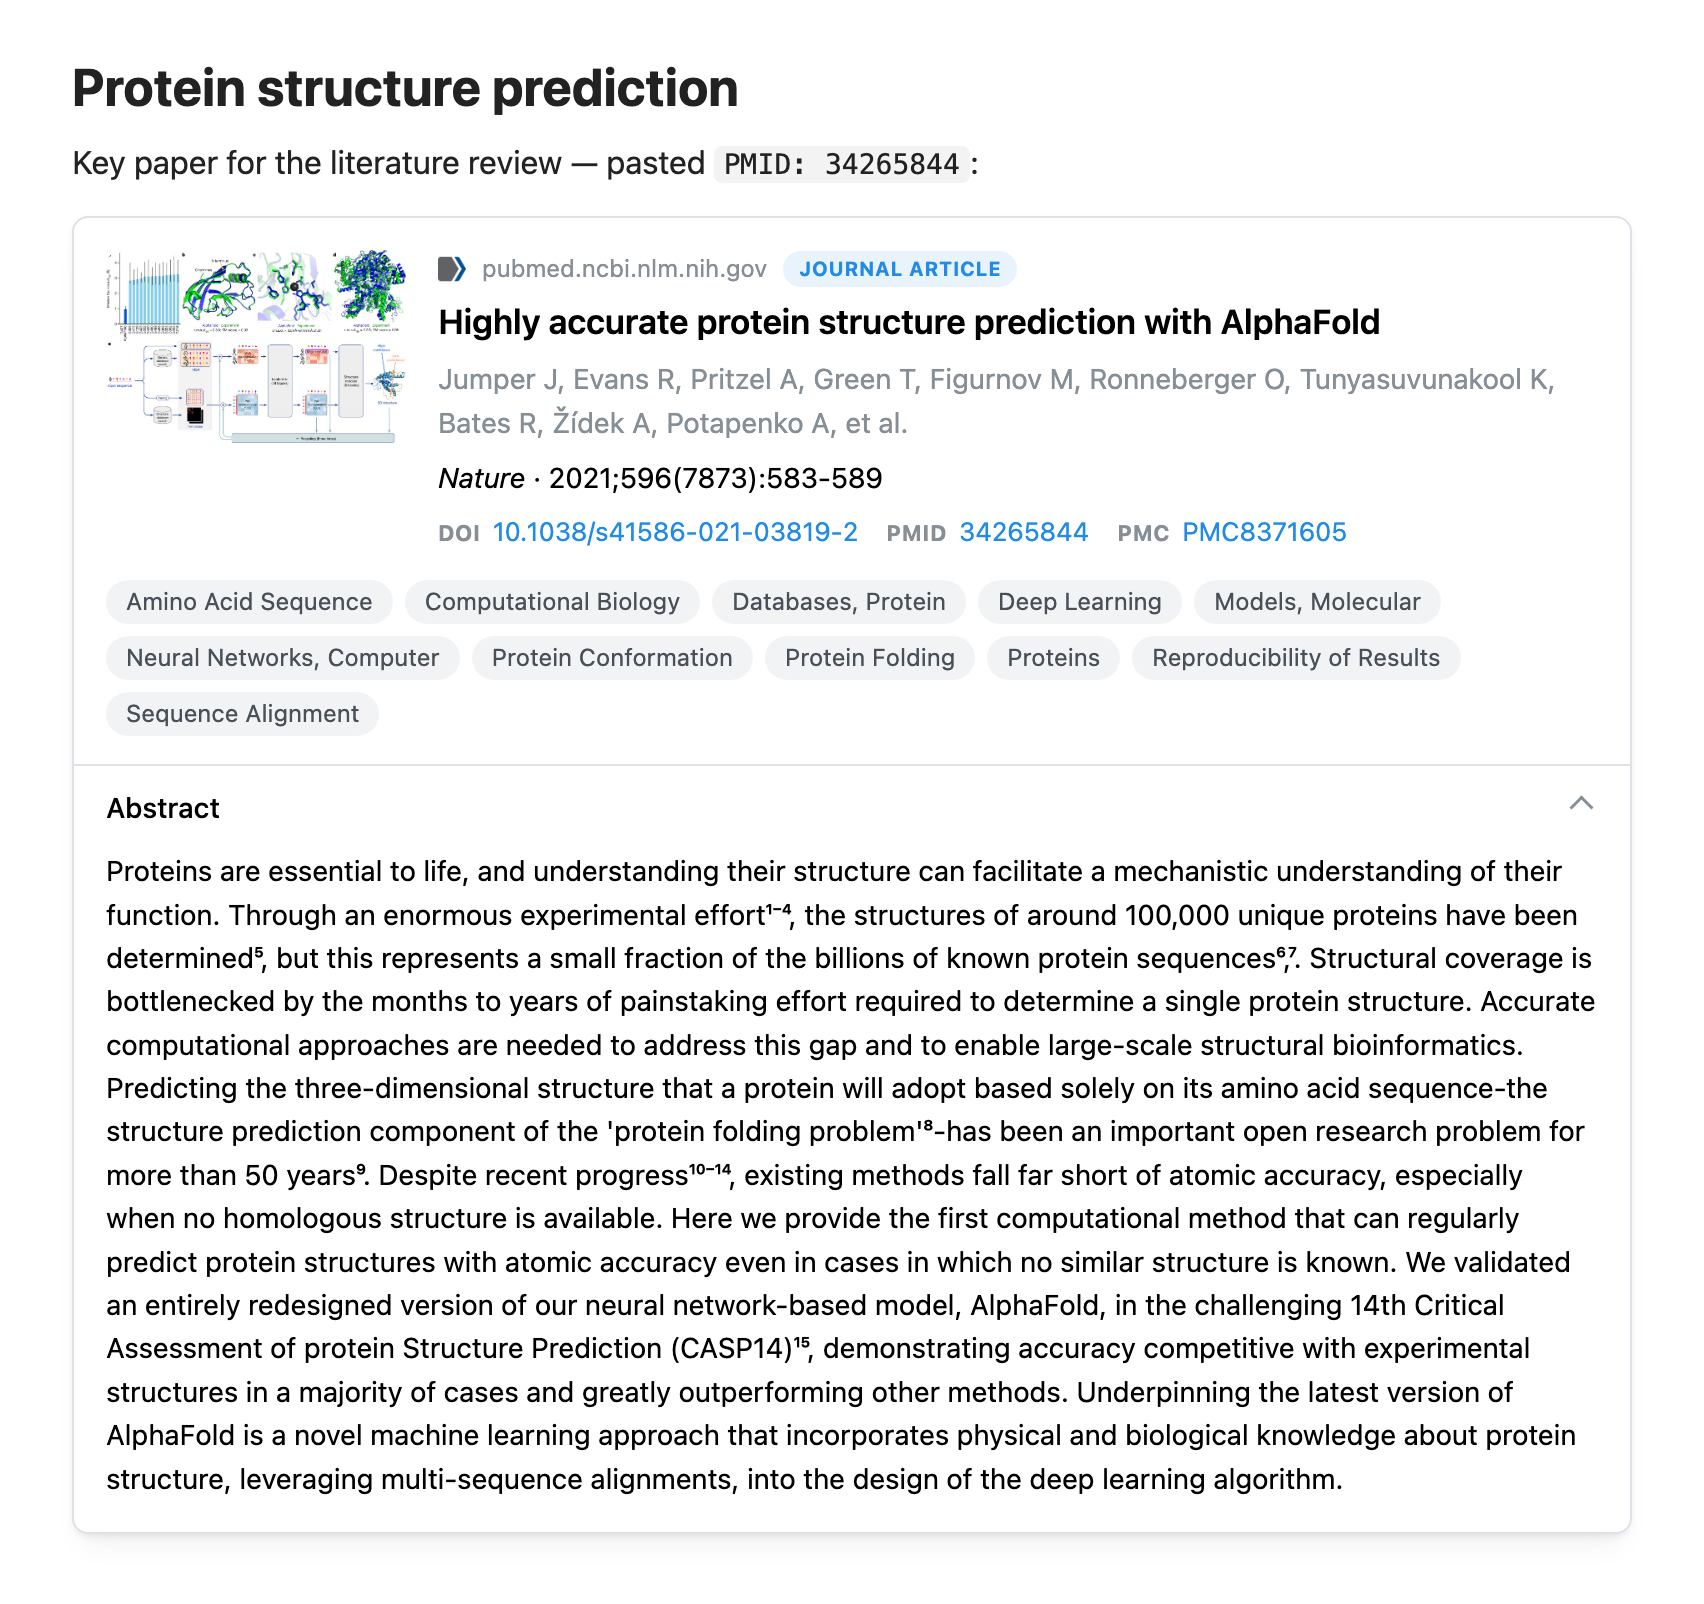
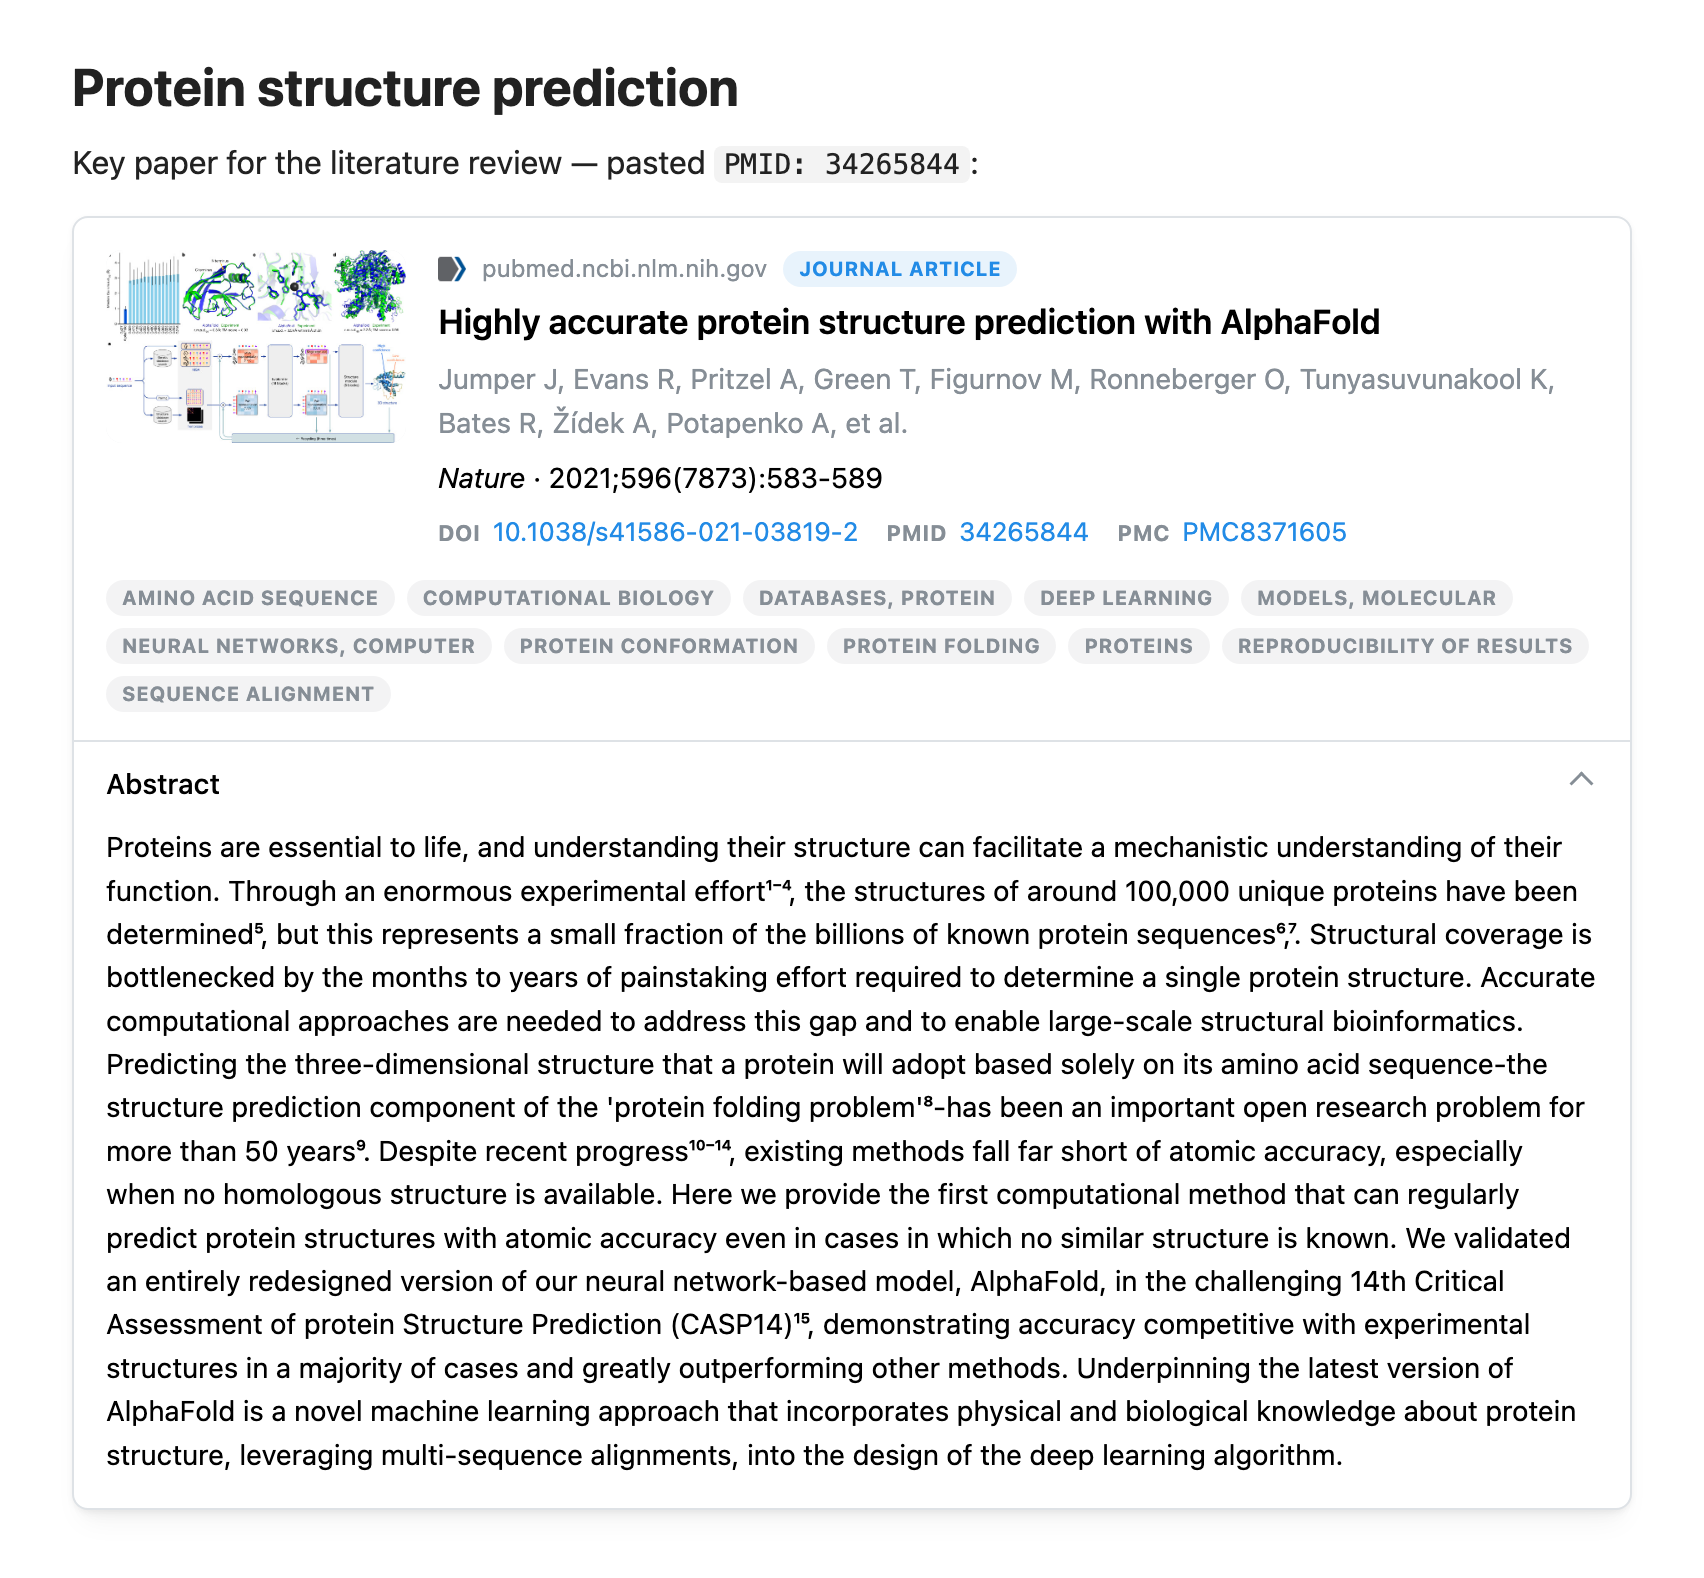
Keywords as Mantine light gray Badges
Replace the Pill style with Badge variant="light" color="gray"
(uppercase, bold, 18px, rounded) in Mantine's light and dark palettes.
Regenerate README and listing images. Bump to 1.4.1.

diff --git a/styles.css b/styles.css
@@ -1,6 +1,6 @@
 /*
  * Card styled after Mantine (https://mantine.dev): Card withBorder + shadow="sm" + radius="md",
- * light-variant Badge, Pill, Anchor and Accordion-like abstract toggle, with Mantine's default
+ * light-variant Badges (blue type, gray keywords), Anchor and Accordion-like abstract toggle, with Mantine's default
  * light/dark palettes following Obsidian's theme.
  */
 .scientific-article-card {
@@ -17,8 +17,8 @@
 	--sac-anchor: #228be6;
 	--sac-badge-bg: rgba(34, 139, 230, 0.1);
 	--sac-badge-color: #228be6;
-	--sac-pill-bg: #f1f3f5;
-	--sac-pill-color: #495057;
+	--sac-gray-badge-bg: rgba(134, 142, 150, 0.1);
+	--sac-gray-badge-color: #868e96;
 	--sac-thumb-bg: #f1f3f5;
 	--sac-shadow: 0 1px 3px rgba(0, 0, 0, 0.05), rgba(0, 0, 0, 0.05) 0 10px 15px -5px, rgba(0, 0, 0, 0.04) 0 7px 7px -5px;
 
@@ -45,8 +45,8 @@
 	--sac-anchor: #4dabf7;
 	--sac-badge-bg: rgba(34, 139, 230, 0.15);
 	--sac-badge-color: #4dabf7;
-	--sac-pill-bg: #242424;
-	--sac-pill-color: #c9c9c9;
+	--sac-gray-badge-bg: rgba(134, 142, 150, 0.15);
+	--sac-gray-badge-color: #ced4da;
 	--sac-thumb-bg: #242424;
 	--sac-shadow: 0 1px 3px rgba(0, 0, 0, 0.3), rgba(0, 0, 0, 0.2) 0 10px 15px -5px;
 }
@@ -177,7 +177,7 @@
 	object-fit: cover;
 }
 
-/* Pill.Group */
+/* Group of Badge variant="light" color="gray" size="sm" */
 .scientific-article-card-keywords {
 	display: flex;
 	flex-wrap: wrap;
@@ -188,12 +188,15 @@
 .scientific-article-card-keyword {
 	display: inline-flex;
 	align-items: center;
-	height: 22px;
-	padding: 0 10px;
+	height: 18px;
+	padding: 0 8px;
 	border-radius: var(--sac-radius-xl);
-	background: var(--sac-pill-bg);
-	color: var(--sac-pill-color);
-	font-size: 12px;
+	background: var(--sac-gray-badge-bg);
+	color: var(--sac-gray-badge-color);
+	font-size: 10px;
+	font-weight: 700;
+	letter-spacing: 0.25px;
+	text-transform: uppercase;
 	white-space: nowrap;
 }
 
